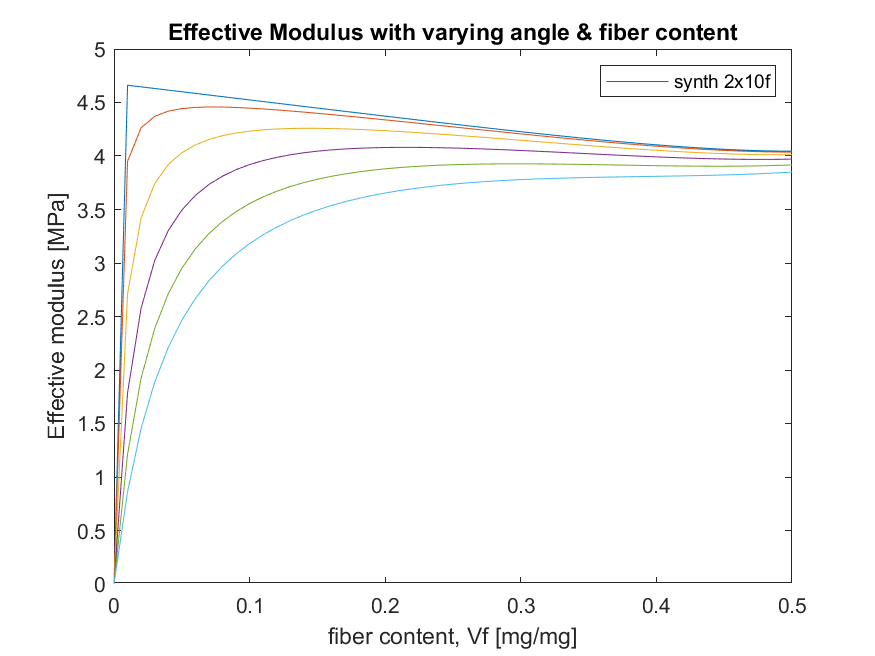
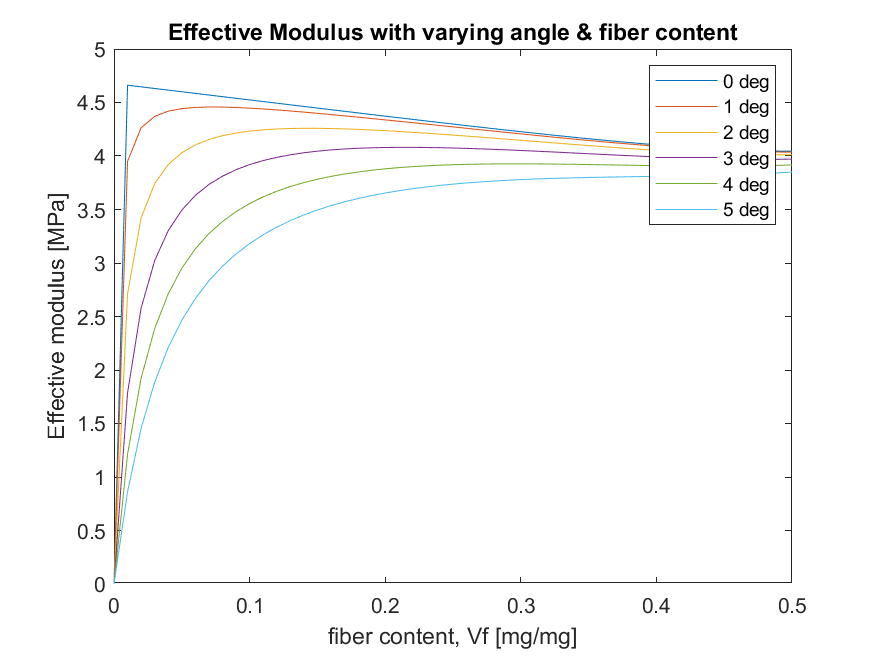
Add files via upload

Changed region(s): [[0.7406, 0.0915, 0.8949, 0.3354]]

diff --git a/overall.m b/overall.m
@@ -28,7 +28,8 @@ plot_inf = ["synth no f","--";
 data_run = 4;           %Changable var
 x_vm = 0:0.01:0.5;      %Changable var
 x_angle = 0:1:5;        %Changable var
-
+%changable var --> change with x_angle
+lines = ["0 deg","1 deg","2 deg","3 deg","4 deg", "5 deg"];
 
 [E_comp,vm] = stress_strain_test(data(data_run,1),double(data(data_run,3)),double(data(data_run,4)),double(data(data_run,5)));
 
@@ -47,7 +48,7 @@ end
 title('Effective Modulus with varying angle & fiber content');
 xlabel('fiber content, Vf [mg/mg]');
 ylabel('Effective modulus [MPa]');
-legend(plot_inf(data_run,1));
+legend(lines);
 saveas(gcf,'Effective Modulus with varying angle & fiber content.png');
 
 
